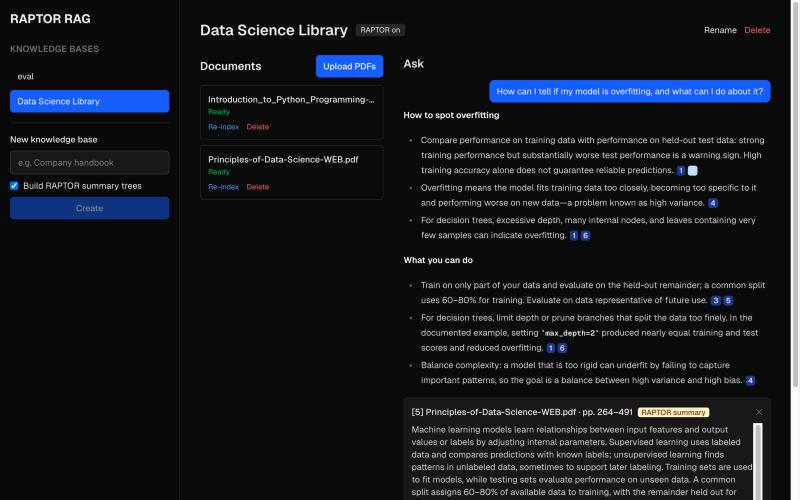
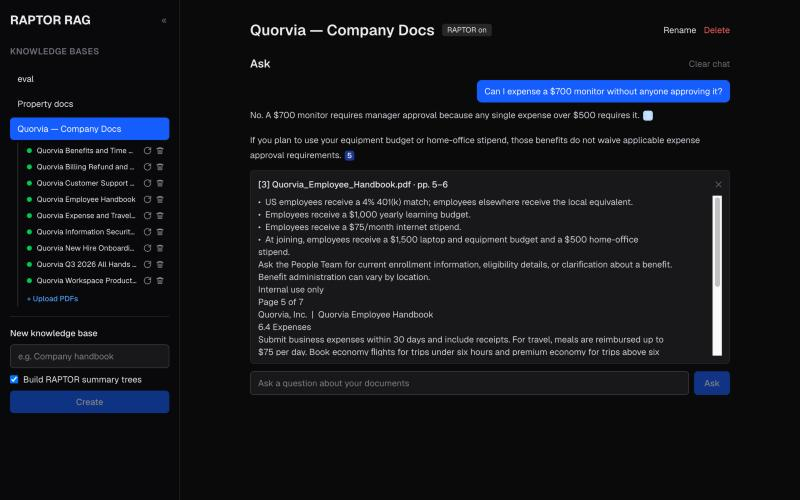
README: document chat history and the sidebar, refresh the screenshot
- Features: collapsible sidebar with documents, saved chat history
- Architecture: SQLite also stores chat history
- API: GET and DELETE /kb/{id}/history
- Design decisions: why model calls run one at a time
- New screenshot of the current layout with the fictional Quorvia demo docs

diff --git a/README.md b/README.md
@@ -4,16 +4,16 @@ Ask questions about your PDFs and get streamed answers that cite the exact passa
 they came from. Documents are organized into knowledge bases, indexed in the background, and
 searched with hybrid retrieval, a cross-encoder reranker and optional **RAPTOR** summary trees.
 
-![A cited answer about overfitting, with a RAPTOR summary open in the source panel](docs/screenshot.jpg)
+![A cited answer about an expense policy, with the knowledge base's documents in the sidebar and the cited passage open](docs/screenshot.jpg)
 
-*Demo documents: OpenStax* Principles of Data Science *and* Introduction to Python Programming
-*(CC BY-NC-SA 4.0).*
+*Demo documents: policies and handbooks of Quorvia, a fictional SaaS company generated for this demo.*
 
 **Stack:** Python 3.12 · FastAPI · Qdrant · BGE-M3 · bge-reranker-v2-m3 · OpenAI · UMAP + scikit-learn · Next.js 16 · Tailwind
 
 ## Features
 
-- **Knowledge bases** — create, rename and delete; each has its own Qdrant collection.
+- **Knowledge bases** — create, rename and delete; each has its own Qdrant collection. They live
+  in a collapsible sidebar, with the selected knowledge base's documents listed underneath.
 - **PDF upload with live status** — parsing, embedding and tree building run as a background
   job (`queued → parsing → embedding → building_tree → ready | failed`) with progress.
 - **Hybrid retrieval** — BGE-M3 dense and sparse (lexical) vectors fused with reciprocal rank
@@ -23,6 +23,9 @@ searched with hybrid retrieval, a cross-encoder reranker and optional **RAPTOR**
 - **Grounded, cited answers** — every factual sentence cites a numbered source; if the documents
   don't contain the answer, the model says so instead of guessing. Click a citation to see the
   passage, document and pages.
+- **Saved chat history** — every answer is stored per knowledge base with its citations, so a
+  conversation survives reloads and restarts; it can be cleared, and it is deleted with its
+  knowledge base.
 - **Clean deletes and re-indexing** — removing a document removes all of its chunks and summary
   nodes; re-indexing never duplicates them. Both are covered by tests.
 - **Measured, not claimed** — an evaluation harness compares retrieval setups with retrieval
@@ -44,7 +47,7 @@ flowchart LR
     R --> RR[Cross-encoder rerank]
     RR --> LLM[OpenAI<br/>streamed answer]
     LLM -- tokens, then citations --> UI
-    API --- DB[(SQLite<br/>KBs, documents, status,<br/>summary cache)]
+    API --- DB[(SQLite<br/>KBs, documents, status,<br/>chat history, summary cache)]
 ```
 
 ### How a question is answered
@@ -115,6 +118,8 @@ Other backend settings (models, chunk size, retrieval depth, upload limit) are i
 | `DELETE` | `/kb/{id}/documents/{doc_id}` | Delete a document, its chunks and its tree |
 | `POST` | `/kb/{id}/documents/{doc_id}/reindex` | Re-index a document |
 | `POST` | `/kb/{id}/query` | Ask a question → SSE: `token`…, `citations`, `done` |
+| `GET` | `/kb/{id}/history` | Saved questions, answers and citations |
+| `DELETE` | `/kb/{id}/history` | Clear the chat history |
 
 ## Evaluation
 
@@ -180,6 +185,10 @@ uv run python -m evals.run score --batch
 - **In-process background worker + SQLite.** Simple to run and enough for a single server; jobs
   interrupted by a restart are marked failed and can be re-indexed. A multi-instance deployment
   would swap in a persistent queue.
+- **One model call at a time.** PyTorch on Apple GPUs crashes when two threads run models at
+  once, so embedding and reranking share a lock. Concurrent questions wait their turn (about
+  1.5 s of model time each) instead of crashing the server; heavy traffic would need a dedicated
+  model server.
 - **Cheap model for summaries, strong model for answers.** RAPTOR makes many summary calls, so
   they use `gpt-6-luna` and are cached by content hash; answers and grading use `gpt-6.1-sol`.
 
